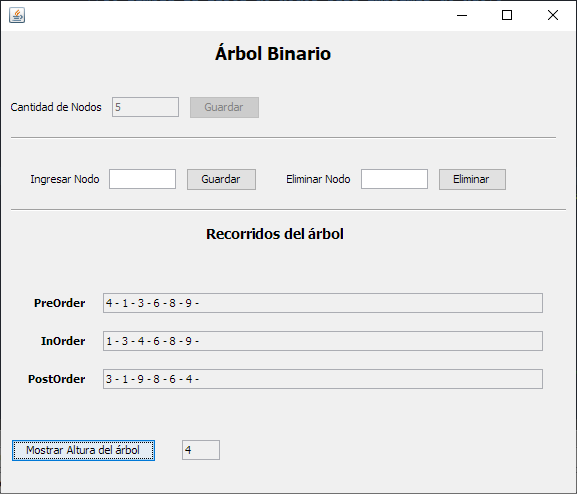
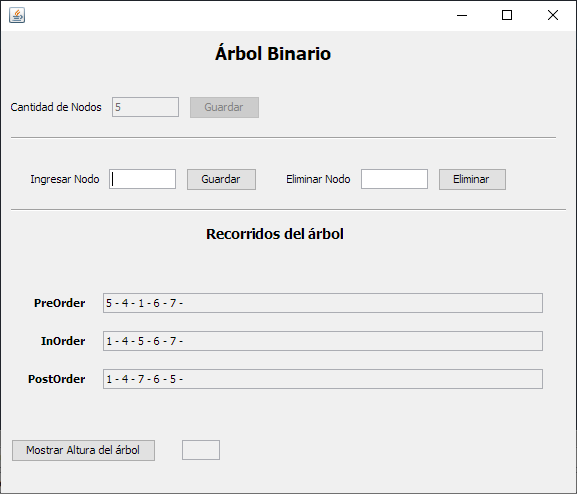
images updated

diff --git a/src/BinaryTree/Menu.java b/src/BinaryTree/Menu.java
@@ -251,7 +251,7 @@ public class Menu extends javax.swing.JFrame {
             int numero = Integer.parseInt(txtNodo.getText());
 
             
-            if (numeroMaxNodos >= cantActualNodos) {
+            if (numeroMaxNodos > cantActualNodos) {
                 //se añade el nodo
                 fn.add(numero);
 
@@ -314,6 +314,10 @@ public class Menu extends javax.swing.JFrame {
             
             if(existe){
                 fn.borrarNodo(dato);
+                
+                //se disminuye la cantidad de nodos en el programa
+                cantActualNodos--;
+                
                 
                  //SE IMPRIMEN LOS ÓRDENES DEL ÁRBOL/////////////
                 

diff --git a/src/BinaryTree/Funciones.java b/src/BinaryTree/Funciones.java
@@ -128,7 +128,7 @@ public class Funciones {
 }
      //eliminar nodo
     public void borrarNodo(int valor){
-        borrarRecursivo(root, valor);
+        borrarRecursivo(root, valor);              
     }
     
     private Nodo borrarRecursivo(Nodo actual, int valor){
